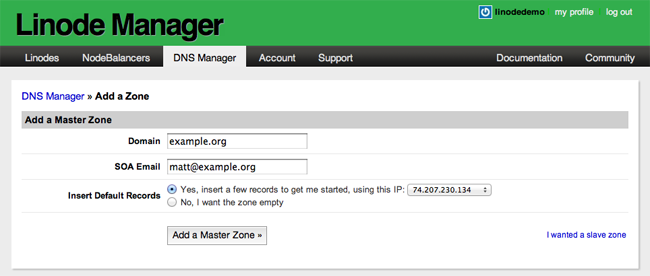
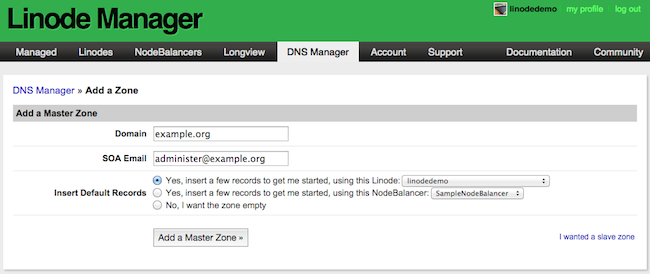
Screen shot updates for add a zone feature

diff --git a/docs/networking/dns/dns-manager.md b/docs/networking/dns/dns-manager.md
@@ -105,7 +105,7 @@ Here's how to add a new domain zone:
 2.  Click the **DNS Manager** tab.
 3.  Select the **Add a domain zone** link. The webpage shown below appears.
 
-[![This page lets you add a domain zone.](/docs/assets/1120-dns8.png)](/docs/assets/1120-dns8.png)
+[![This page lets you add a domain zone.](/docs/assets/1120-dns8.png)](/docs/assets/1332-hosting-1.png)
 
  {: .note }
 >
